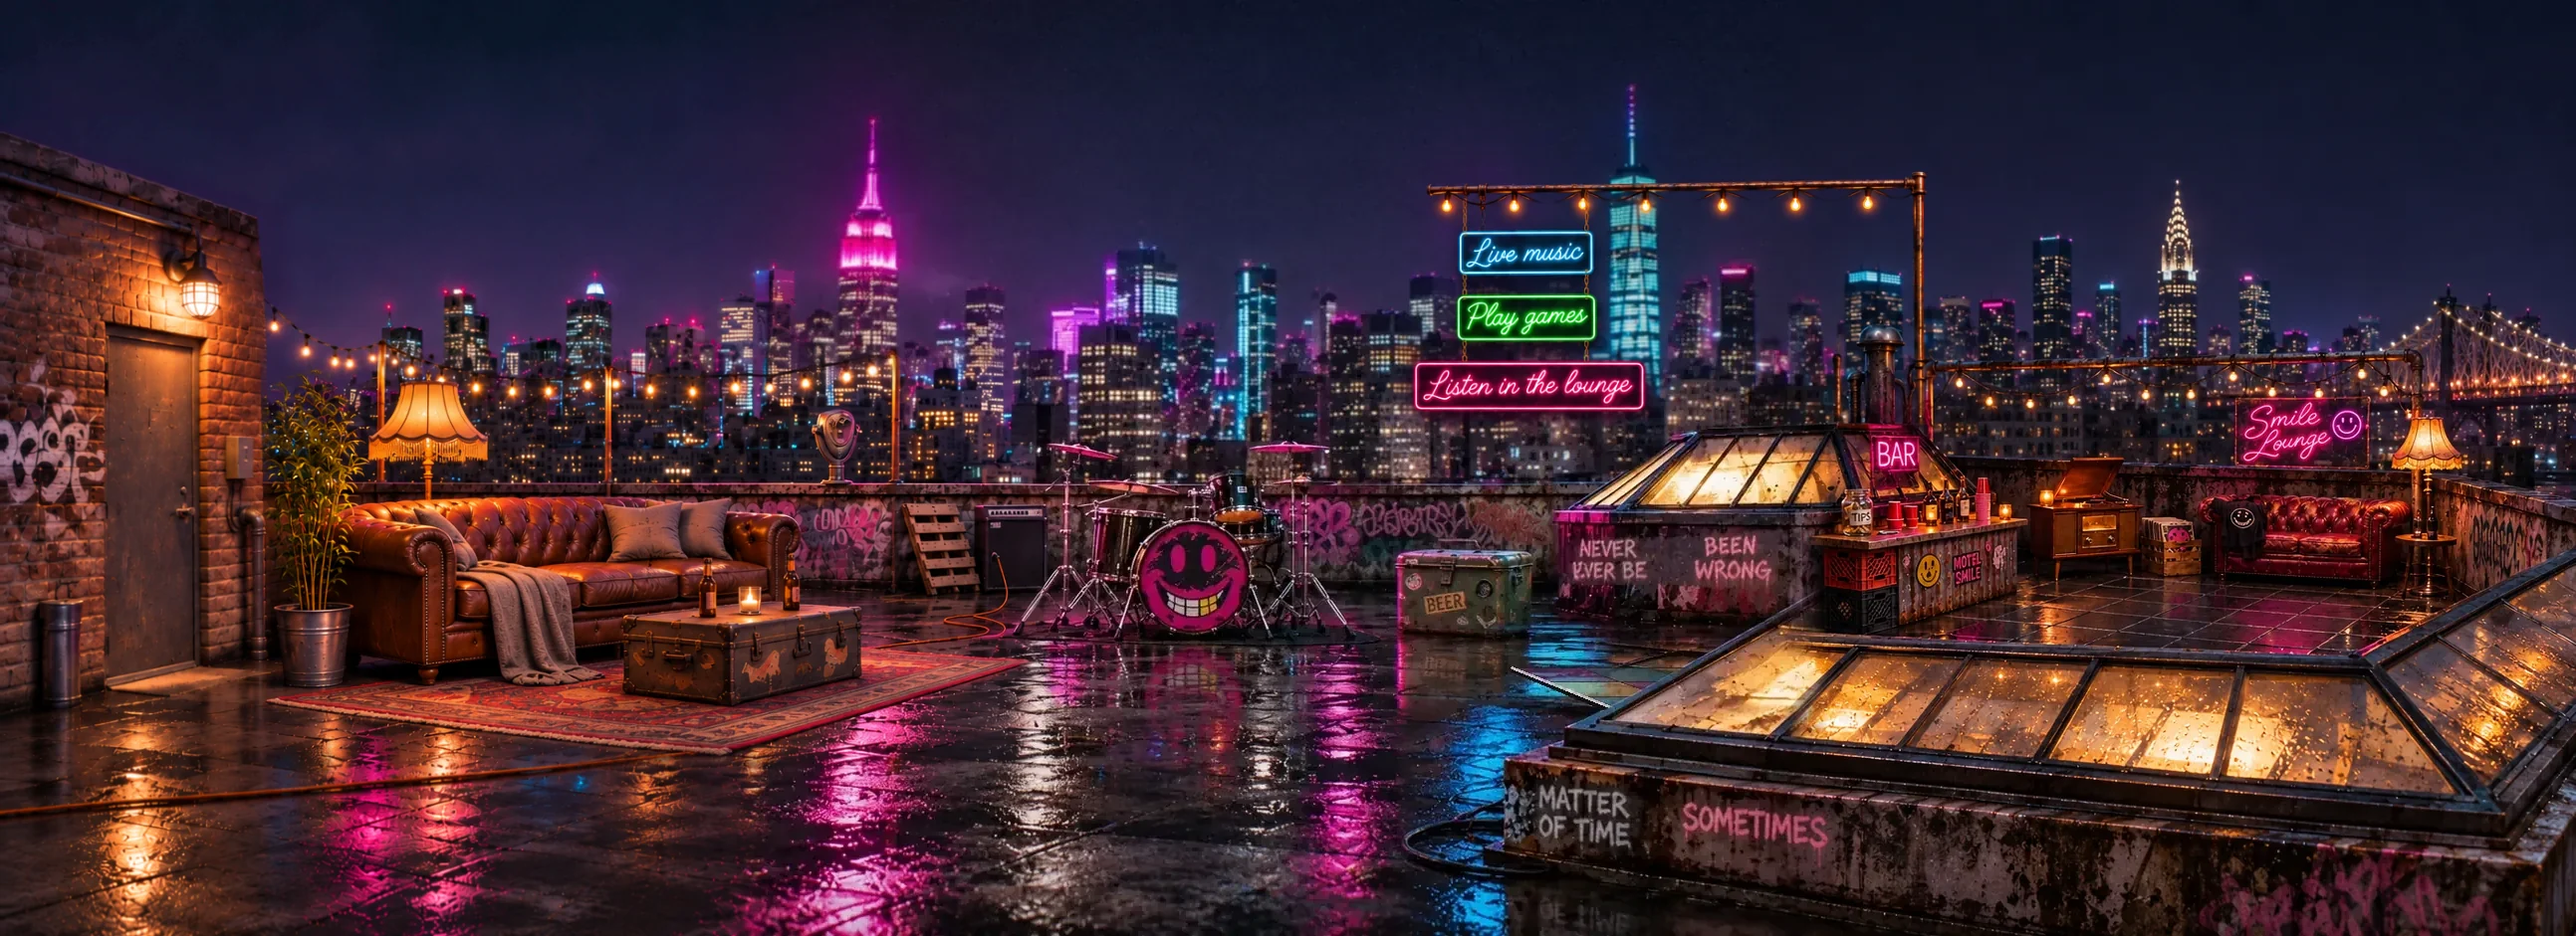
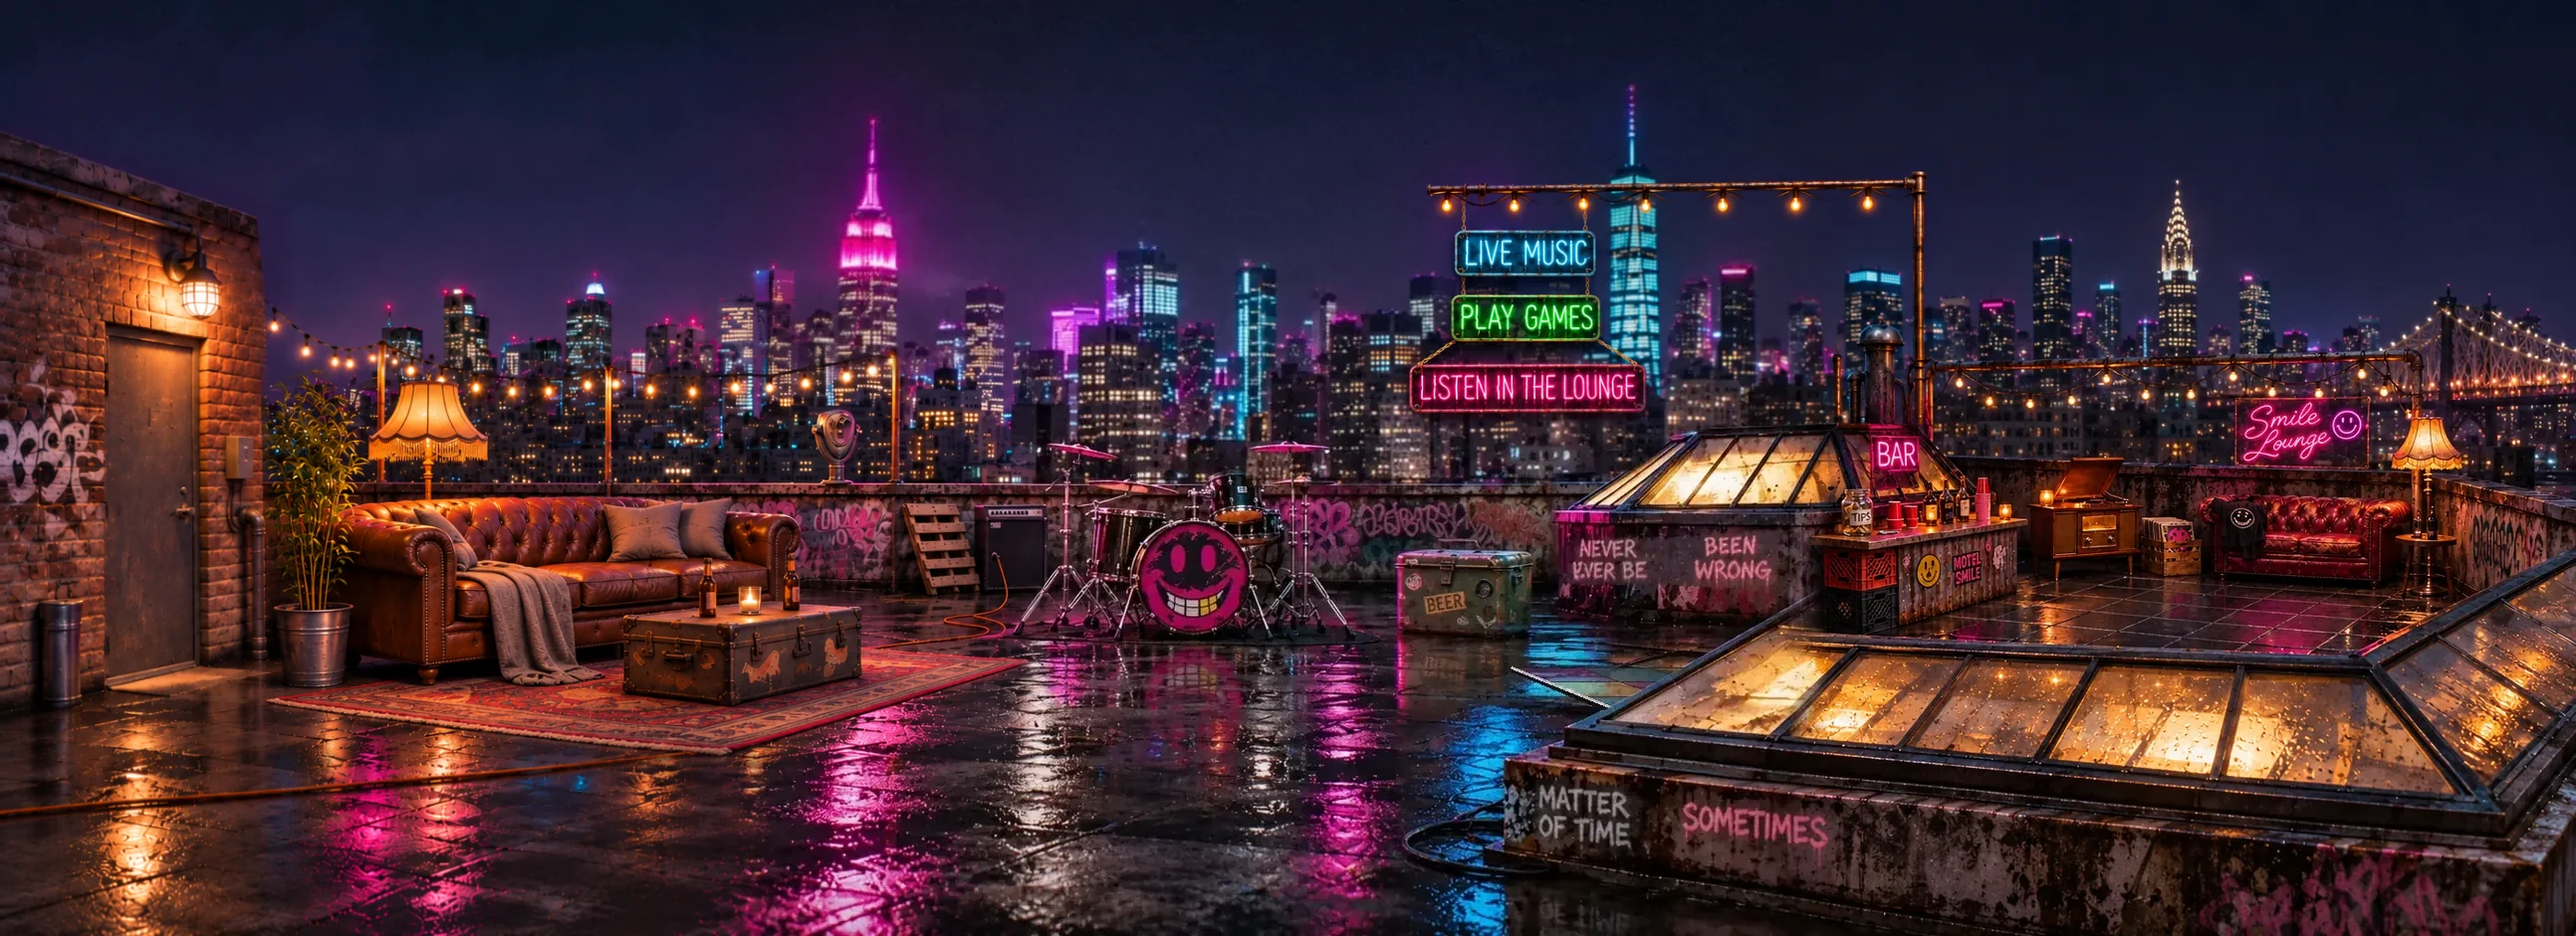
Button signs: angled chains to the wider lounge sign; gritty hand-bent block neon lettering on weathered boards
Claude-Session: https://claude.ai/code/session_011gssdMsenVXumrh9a32rRB

Changed region(s): [[0.5257, 0.1849, 0.6803, 0.4623]]

diff --git a/index.html b/index.html
@@ -288,9 +288,9 @@ window.MSFit=(w,h,W0,H0)=>{ const cov=Math.max(w/W0,h/H0), con=Math.min(w/W0,h/H
     <a class="pk" id="pk-floor" href="#lounge" data-lounge style="left:1850px;top:578px;width:436px;height:74px;clip-path:polygon(2% 0,100% 0,89% 100%,0 100%)" aria-label="Dance floor: go to the Smile Lounge"></a>
     <a class="pk" id="pk-bar" href="#lounge" data-lounge style="left:1648px;top:428px;width:206px;height:192px" aria-label="The bar: go to the Smile Lounge"></a>
     <a class="pk" id="pk-couch" href="#lounge" data-lounge style="left:1860px;top:400px;width:440px;height:178px" aria-label="The lounge: record player and couch"></a>
-    <button class="pk ns" id="ns-live" style="left:1289px;top:231px;width:137px;height:46px" aria-label="Live music: shows"></button>
-    <button class="pk ns" id="ns-games" style="left:1287px;top:294px;width:142px;height:50px" aria-label="Play games"></button>
-    <button class="pk ns" id="ns-listen" style="left:1246px;top:362px;width:231px;height:51px" aria-label="Listen in the lounge"></button>
+    <button class="pk ns" id="ns-live" style="left:1285px;top:231px;width:144px;height:48px" aria-label="Live music: shows"></button>
+    <button class="pk ns" id="ns-games" style="left:1280px;top:295px;width:153px;height:49px" aria-label="Play games"></button>
+    <button class="pk ns" id="ns-listen" style="left:1239px;top:365px;width:240px;height:50px" aria-label="Listen in the lounge"></button>
     <a class="pk" id="pk-arcade" hidden href="#arcade" data-arcade style="display:none;left:335px;top:318px;width:128px;height:245px" aria-label="Arcade: go to the game corner"></a>
     <canvas id="pat-fx" width="1672" height="941"></canvas>
     <div id="tags"></div>
@@ -2484,7 +2484,7 @@ body.gg-on .lg-panel,body.gg-on .lg-tag,body.gg-on .lg-hint,body.gg-on .lg-swipe
   function render(c){
     seo(c);
     const hints=c.site&&c.site.showSetupHints;
-    $("stage").style.backgroundImage=`url("${"img/roof-v2.webp?v=9"}")`; /* wide roof with the lounge (2412x941); content.json hero is the old 1672 plate */
+    $("stage").style.backgroundImage=`url("${"img/roof-v2.webp?v=10"}")`; /* wide roof with the lounge (2412x941); content.json hero is the old 1672 plate */
     const m=c.music,f=m.featured;
     const sub=[f.status,f.length].filter(Boolean).join(" · ");
     $("t-listen").textContent=f.title+" ▸"; $("t-listen-sub").textContent=sub;
